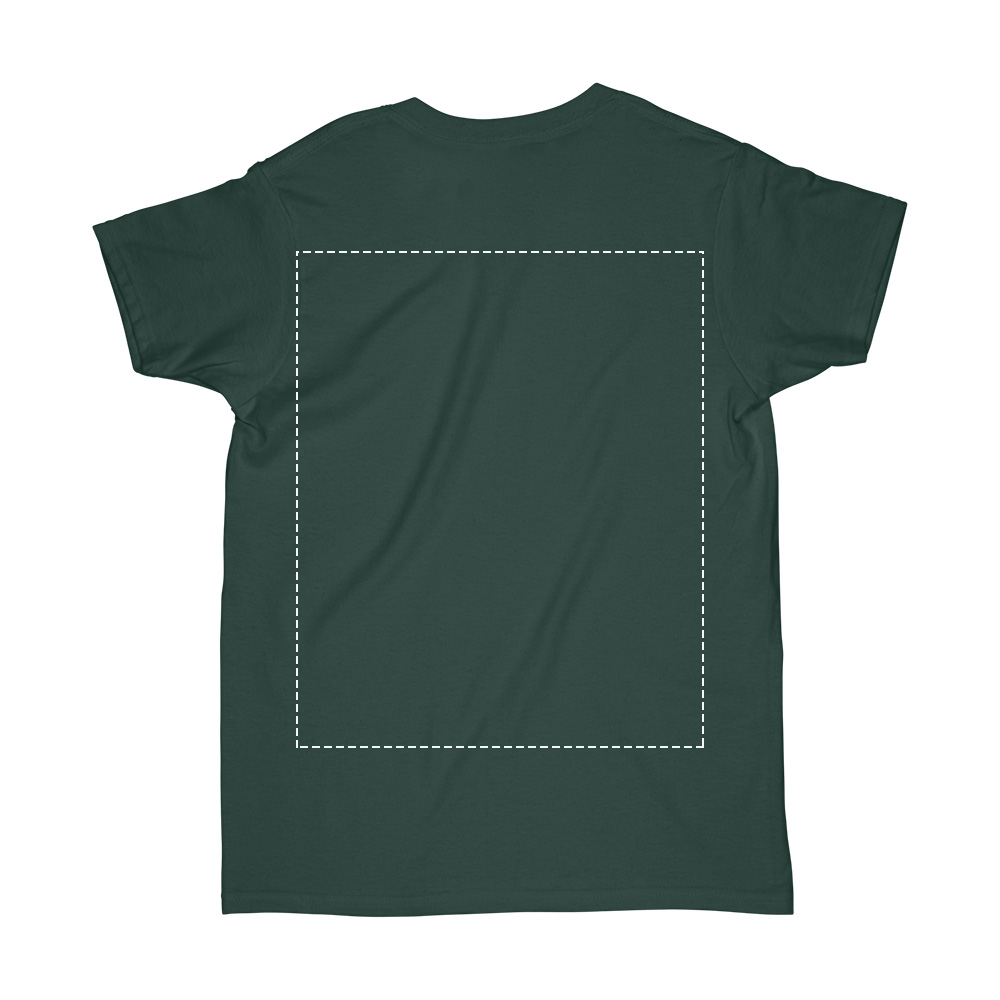
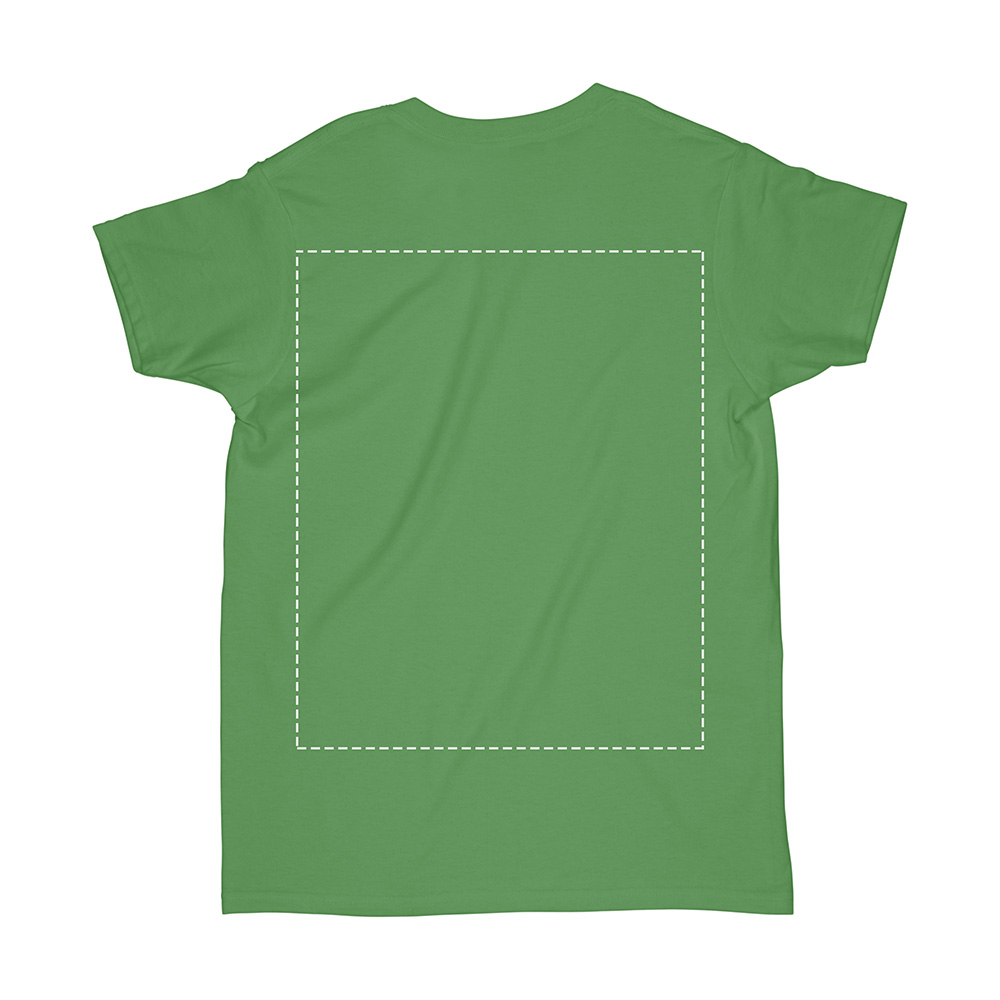
new green

diff --git a/app/controllers/account_controller.rb b/app/controllers/account_controller.rb
@@ -9,7 +9,7 @@ class AccountController < ShopifyApp::AuthenticatedController
 
     #@products= ShopifyAPI::Product.where(vendor: "rocketees").sort_by(&:created_at).reverse.first.handle
 
-    @token = Shop.where(shopify_domain: "6dollartees-dev-store.myshopify.com").first.shopify_token
+    #@token = Shop.where(shopify_domain: "6dollartees-dev-store.myshopify.com").first.shopify_token
 
     @shop = Shop.where(shopify_domain: ShopifyAPI::Shop.current.myshopify_domain).first
 
